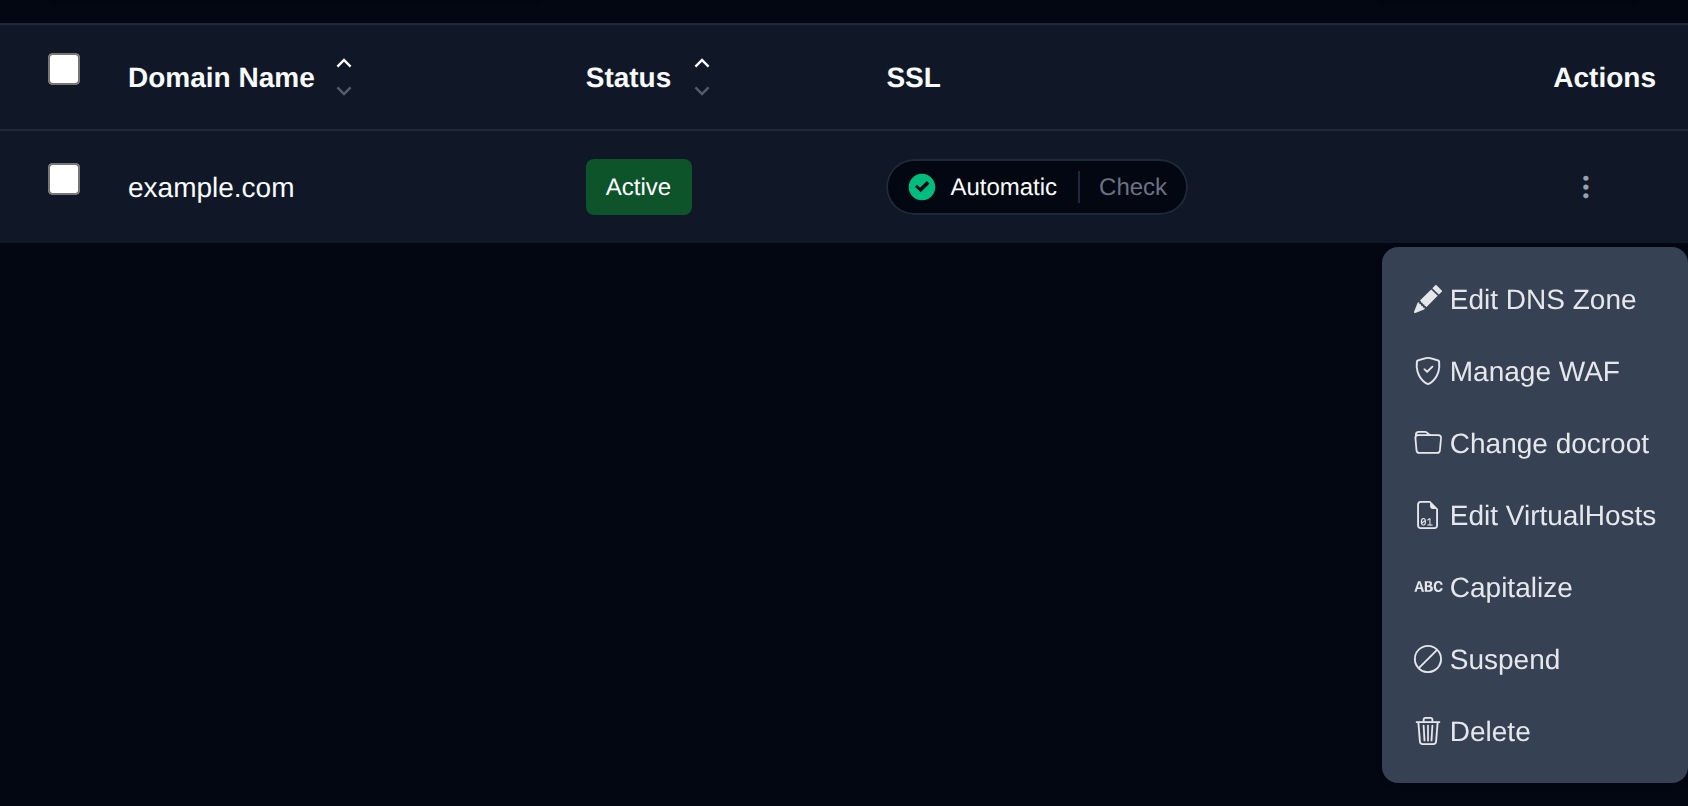
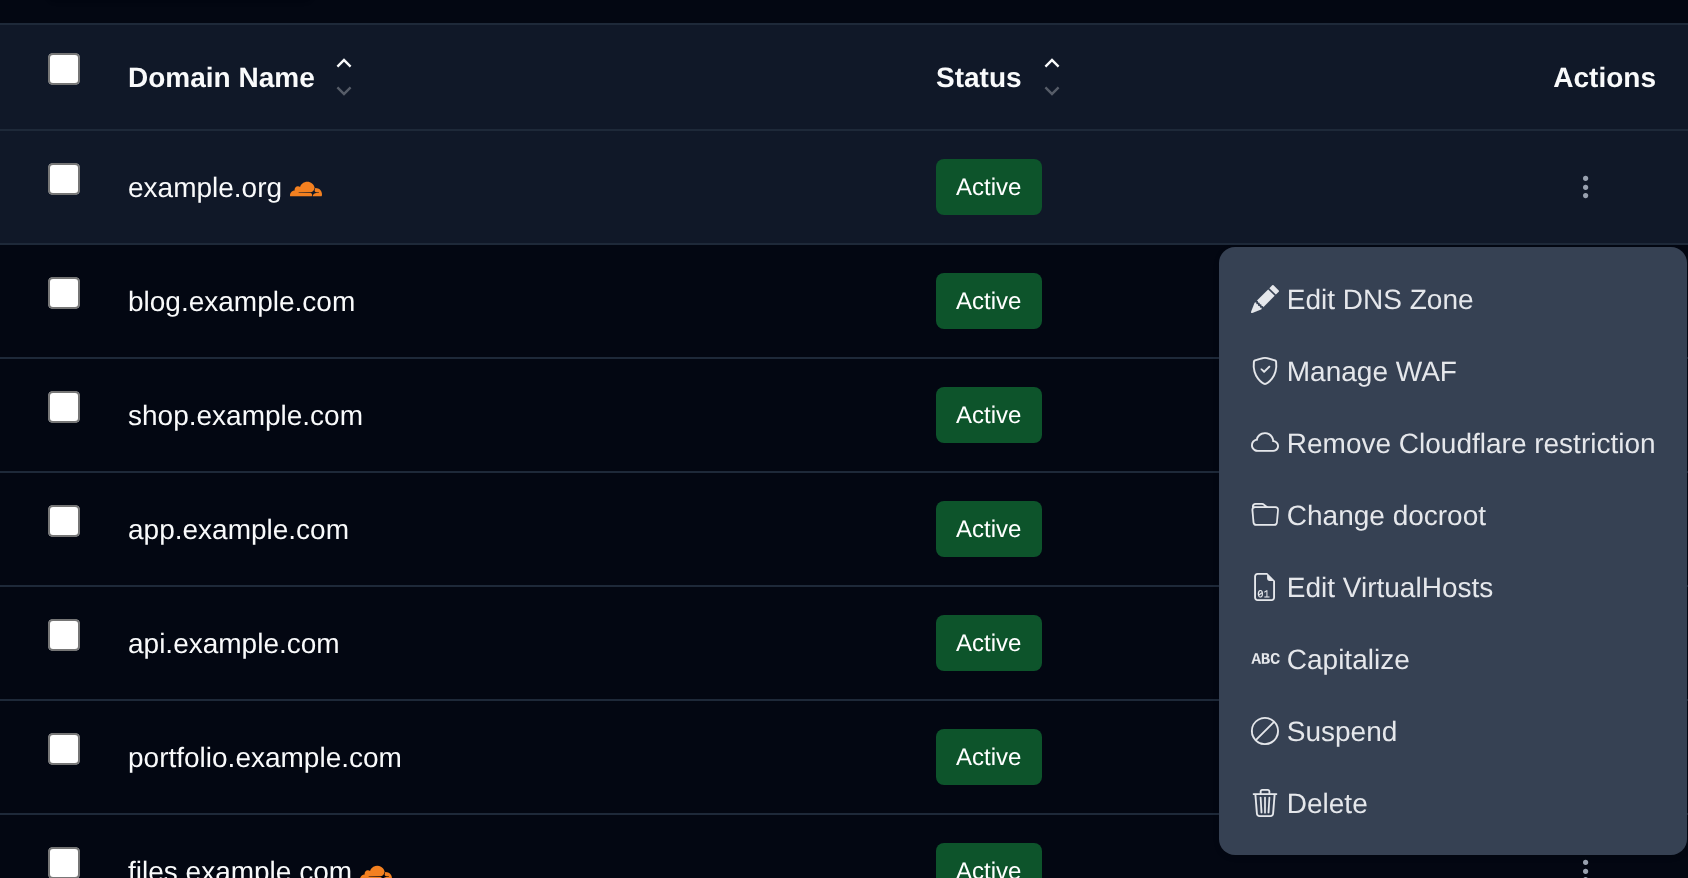
update docs for domains page in 2.0.14

diff --git a/website/docs/panel/domains/domains.md b/website/docs/panel/domains/domains.md
@@ -6,17 +6,55 @@ sidebar_position: 1
 
 To create a website, the first step is to [add a domain name](/docs/panel/domains/#create-a-new-domain).
 
-If the **Domains** module is enabled on the server and your user account has access to it, you'll see a table listing all current domains, the total number of domains, a search bar, and an option to add a new domain.
+If the **Domains** module is enabled on the server and your user account has access to it, you'll see a table listing all current domains, the total number of domains, a search bar, filters, and an option to add a new domain.
 
-![Domains page listing domains with their status, document root and PHP version](/img/openpanel-screenshots/domains/domains-list.png#gh-light-mode-only)
-![Domains page listing domains with their status, document root and PHP version](/img/openpanel-screenshots/domains/domains-list_dark.png#gh-dark-mode-only)
+![Domains page listing domains with their status, PHP version, SSL certificate and WAF toggle](/img/openpanel-screenshots/domains/domains-list.png#gh-light-mode-only)
+![Domains page listing domains with their status, PHP version, SSL certificate and WAF toggle](/img/openpanel-screenshots/domains/domains-list_dark.png#gh-dark-mode-only)
 
 From this interface, you can view:
 
-* **Domain Status**: Active or Suspended
-* **Document Root** (folder where website files will be stored)
-* **SSL Settings**: Automatic or Custom
-* **Domain Management Options**: Based on enabled features
+* **Status**: Active or Suspended
+* **Document Root**: the folder where the website files are stored
+* **PHP Version** used by the domain
+* **SSL**: the state of the domain's certificate, see [SSL column](#ssl-column)
+* **WAF**: a toggle to turn the firewall on or off, see [WAF column](#waf-column)
+* **Cloudflare**: an orange cloud next to the domain name when it only accepts traffic from Cloudflare, see [Cloudflare-only access](#cloudflare-only-access)
+* **Actions**: a menu with the options your plan includes
+
+Use **Show Columns** to choose which columns are shown, your choice is remembered in the browser. The **Websites** (number of websites on the domain), **Link**, **Type** and **Redirect** columns are hidden by default.
+
+### Filters
+
+Next to **Show Columns** are filters to narrow down the list:
+
+* **Status**: All, Active or Suspended
+* **PHP Version**: each PHP version used by your domains
+* **SSL**: AutoSSL or Custom SSL, if the SSL feature is enabled
+* **Type**: Domain or Subdomain
+* **Redirect**: with or without a redirect, if the Redirects feature is enabled
+
+Filters work together with the search bar, and the counter below the table shows how many domains match. On small screens the filters are grouped under a single **Filters** button.
+
+![Status filter open next to Show Columns, with the PHP Version, SSL, Type and Redirect filters beside it](/img/openpanel-screenshots/domains/domains-filters.png#gh-light-mode-only)
+![Status filter open next to Show Columns, with the PHP Version, SSL, Type and Redirect filters beside it](/img/openpanel-screenshots/domains/domains-filters_dark.png#gh-dark-mode-only)
+
+### SSL column
+
+If the SSL feature is enabled, the **SSL** column shows the state of each domain's certificate:
+
+| Shown | Meaning |
+|---|---|
+| **Valid until** *date* | The certificate is valid until that date. |
+| **Expires** *date* | The certificate expires within 14 days. |
+| **Expired** *date* | The certificate has expired. |
+| **Not issued yet** | AutoSSL hasn't issued a certificate for the domain yet, or the custom certificate file is missing. |
+| **Unreadable** | The certificate file exists but can't be read. |
+
+Hover over it to see whether the domain uses AutoSSL or a custom certificate and who issued it. Click it to open the domain's [SSL settings](/docs/panel/domains/ssl).
+
+### WAF column
+
+If the WAF feature is enabled, the **WAF** column has a toggle to turn the [Web Application Firewall](/docs/panel/security/waf) on or off for the domain. Hover over the toggle to see whether it is on, off or set to monitor only. To change the protection level or app profiles, choose **Manage WAF** from the **Actions** menu.
 
 ## Available Actions
 
@@ -24,23 +62,41 @@ Depending on the features enabled on your server, the following actions are avai
 
 * **Edit DNS Zone** — if the DNS feature is enabled
 * **Manage WAF** — if the WAF feature is enabled
-* **Change Document Root** — if the docroot feature is enabled
+* **Restrict to Cloudflare / Remove Cloudflare restriction** — see [Cloudflare-only access](#cloudflare-only-access)
+* **Change docroot** — if the docroot feature is enabled
 * **Edit VirtualHosts** — if the VHosts editor is enabled
 * **Capitalize** — if the Capitalize feature is enabled
 * **Suspend / Unsuspend** — if the Suspend feature is enabled
 * **Delete**
 
-![Actions menu of a domain with Edit DNS Zone, Manage WAF, Change docroot, Edit VirtualHosts, Capitalize, Suspend and Delete](/img/openpanel-screenshots/domains/domains-actions.png#gh-light-mode-only)
-![Actions menu of a domain with Edit DNS Zone, Manage WAF, Change docroot, Edit VirtualHosts, Capitalize, Suspend and Delete](/img/openpanel-screenshots/domains/domains-actions_dark.png#gh-dark-mode-only)
+![Actions menu of a domain with Edit DNS Zone, Manage WAF, Remove Cloudflare restriction, Change docroot, Edit VirtualHosts, Capitalize, Suspend and Delete](/img/openpanel-screenshots/domains/domains-actions.png#gh-light-mode-only)
+![Actions menu of a domain with Edit DNS Zone, Manage WAF, Remove Cloudflare restriction, Change docroot, Edit VirtualHosts, Capitalize, Suspend and Delete](/img/openpanel-screenshots/domains/domains-actions_dark.png#gh-dark-mode-only)
 
-In addition, if the **Redirects** feature is enabled, a dedicated **Redirect** column lets you create, edit, or delete a redirect directly from the table without opening the dropdown menu.
+In addition, if the **Redirects** feature is enabled, the **Redirect** column lets you create, edit, or delete a redirect directly from the table without opening the dropdown menu. It's hidden by default, turn it on from **Show Columns**.
+
+## Cloudflare-only access
+
+If your domain is proxied through [Cloudflare](https://www.cloudflare.com/) (the orange cloud is on in your Cloudflare DNS settings), you can make it accept traffic only from Cloudflare. Visitors that reach the server directly, for example by pointing the domain to your server IP in their hosts file, get a **403** error instead of the website. This keeps attackers from going around Cloudflare's firewall and DDoS protection.
+
+To turn it on, open the domain's **Actions** menu and click **Restrict to Cloudflare**. An orange cloud appears next to the domain name.
+
+![Domain restricted to Cloudflare with the orange cloud icon next to its name](/img/openpanel-screenshots/domains/domains-cloudflare.png#gh-light-mode-only)
+![Domain restricted to Cloudflare with the orange cloud icon next to its name](/img/openpanel-screenshots/domains/domains-cloudflare_dark.png#gh-dark-mode-only)
+
+To turn it off, click **Remove Cloudflare restriction** in the same menu.
+
+:::warning
+Only restrict domains that are proxied through Cloudflare. If the domain points straight to your server, every visitor gets a 403 error.
+:::
+
+To change several domains at once, use the **Cloudflare** [bulk action](#bulk-actions). Cloudflare-only access is not available for `.onion` domains.
 
 ## Bulk Actions
 
 Tick the checkbox of one or more domains, or the checkbox in the table header to select every domain shown by the current search. A bar appears at the bottom of the page with the number selected, a **Clear** link and these actions:
 
-![A domain selected with the bulk actions bar offering Suspend, Unsuspend, Change PHP version, Redirect to, Remove redirect, Enable WAF, Disable WAF and Delete](/img/openpanel-screenshots/domains/domains-bulk.png#gh-light-mode-only)
-![A domain selected with the bulk actions bar offering Suspend, Unsuspend, Change PHP version, Redirect to, Remove redirect, Enable WAF, Disable WAF and Delete](/img/openpanel-screenshots/domains/domains-bulk_dark.png#gh-dark-mode-only)
+![A domain selected with the bulk actions bar offering Suspend, Unsuspend, Change PHP version, Redirect to, Remove redirect, WAF, Cloudflare and Delete](/img/openpanel-screenshots/domains/domains-bulk.png#gh-light-mode-only)
+![A domain selected with the bulk actions bar offering Suspend, Unsuspend, Change PHP version, Redirect to, Remove redirect, WAF, Cloudflare and Delete](/img/openpanel-screenshots/domains/domains-bulk_dark.png#gh-dark-mode-only)
 
 | Action | What it does |
 |---|---|
@@ -49,15 +105,18 @@ Tick the checkbox of one or more domains, or the checkbox in the table header to
 | **Change PHP version** | Switches the selected domains to the PHP version you pick. |
 | **Redirect to** | Redirects the selected domains to the URL you enter, starting with `http://` or `https://`. |
 | **Remove redirect** | Removes the redirect from the selected domains. |
-| **Enable WAF** | Turns on the firewall for the selected domains. |
-| **Disable WAF** | Turns off the firewall for the selected domains. |
+| **WAF** | Turns the firewall **On** or **Off** for the selected domains. |
+| **Cloudflare** | **Restrict to Cloudflare** or **Unrestrict** the selected domains, see [Cloudflare-only access](#cloudflare-only-access). |
 | **Delete** | Permanently deletes the selected domains, including their websites, files and DNS zones. |
 
 :::info
 Actions only show when your plan includes that feature, for example **Suspend** and **Unsuspend** need domain suspension, and **Change PHP version** needs PHP. Selected domains that don't support an action, like a domain that is already suspended, are skipped.
 :::
 
-Click an action, confirm it, and it runs on the selected domains one after another. When it's done the page reloads with a notice listing the domains it worked for, or which ones failed and why.
+Click an action, pick a value if it asks for one, confirm it, and it runs on the selected domains one after another. When it's done the page reloads with a notice listing the domains it worked for, or which ones failed and why.
+
+![Cloudflare bulk action asking whether to restrict the selected domains to Cloudflare or unrestrict them](/img/openpanel-screenshots/domains/domains-bulk-cloudflare.png#gh-light-mode-only)
+![Cloudflare bulk action asking whether to restrict the selected domains to Cloudflare or unrestrict them](/img/openpanel-screenshots/domains/domains-bulk-cloudflare_dark.png#gh-dark-mode-only)
 
 ## Create a New Domain
 
@@ -84,16 +143,18 @@ To delete a domain:
 ![Delete domain confirmation page with the Delete Domain button](/img/openpanel-screenshots/domains/delete-form.png#gh-light-mode-only)
 ![Delete domain confirmation page with the Delete Domain button](/img/openpanel-screenshots/domains/delete-form_dark.png#gh-dark-mode-only)
 
-> If the domain is linked to active applications (e.g. [Node.js](/docs/panel/applications/nodejs), [Python](/docs/panel/applications/python) or [WP Manager](/docs/panel/applications/wordpress)), deletion will be blocked until those applications are removed.
+> If the domain has subdomains or is linked to websites (e.g. [Node.js](/docs/panel/applications/nodejs), [Python](/docs/panel/applications/python) or [WP Manager](/docs/panel/applications/wordpress)), deletion will be blocked until those are removed.
 > This prevents accidental removal of domains tied to running websites.
 
 Deleting a domain will **permanently remove** the following:
 
-1. Nginx configuration file
-2. DNS zone file
+1. Web server configuration for the domain, including its redirect, WAF and Cloudflare-only settings
+2. DNS zone with all its records
 3. SSL certificate
-4. IP Blocker rules for the domain
-5. Redirects associated with the domain
+4. Access logs and WAF logs
+5. Email accounts on the domain, the messages stay on disk
+
+Files in the domain's document root are kept.
 
 ## Redirects
 

diff --git a/website/scripts/panel-screenshots/PLAN.md b/website/scripts/panel-screenshots/PLAN.md
@@ -58,7 +58,7 @@ Legend: ✅ route exists · ⚠ route missing or differs · — no screenshot
 ### Domains
 | Doc page | Route | Shots |
 |---|---|---|
-| domains/domains | `/domains` | ✅ page · detail: row actions |
+| domains/domains | `/domains` | ✅ page · detail: filters · cloudflare icon · row actions · bulk · bulk cloudflare |
 | domains/new | `/domains/new` | ✅ page (form) |
 | domains/dns | `/domains/edit-dns-zone/{domain}` | ✅ page · detail: edit record · create record · advanced editor |
 | domains/ssl | `/domains/ssl` | ✅ page · detail: custom SSL form |
